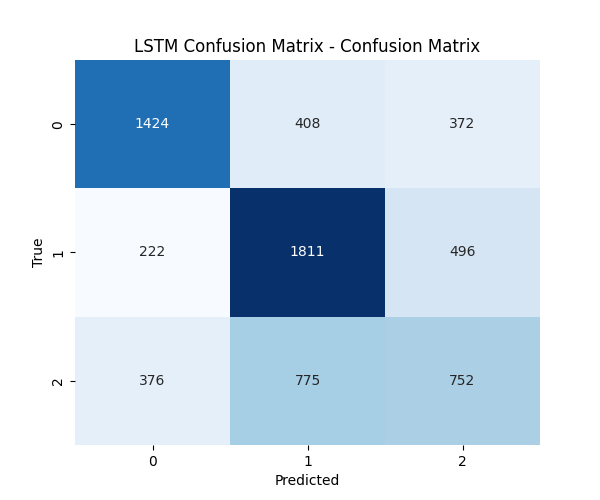
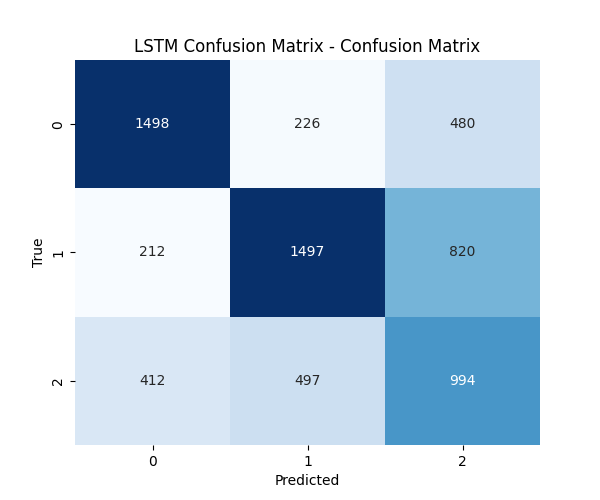
adding last training of model

diff --git a/train.py b/train.py
@@ -20,9 +20,9 @@ current_dir = os.getcwd()
 csv_path = os.path.join(current_dir, 'data', 'final_hateXplain.csv')
 
 learning_rate = 0.001
-batch_size = 30
-hidden_size = 128
-num_layers = 3
+batch_size = 16
+hidden_size = 256
+num_layers = 5
 input_len = 32
 num_epochs = 50
 num_classes = 3
